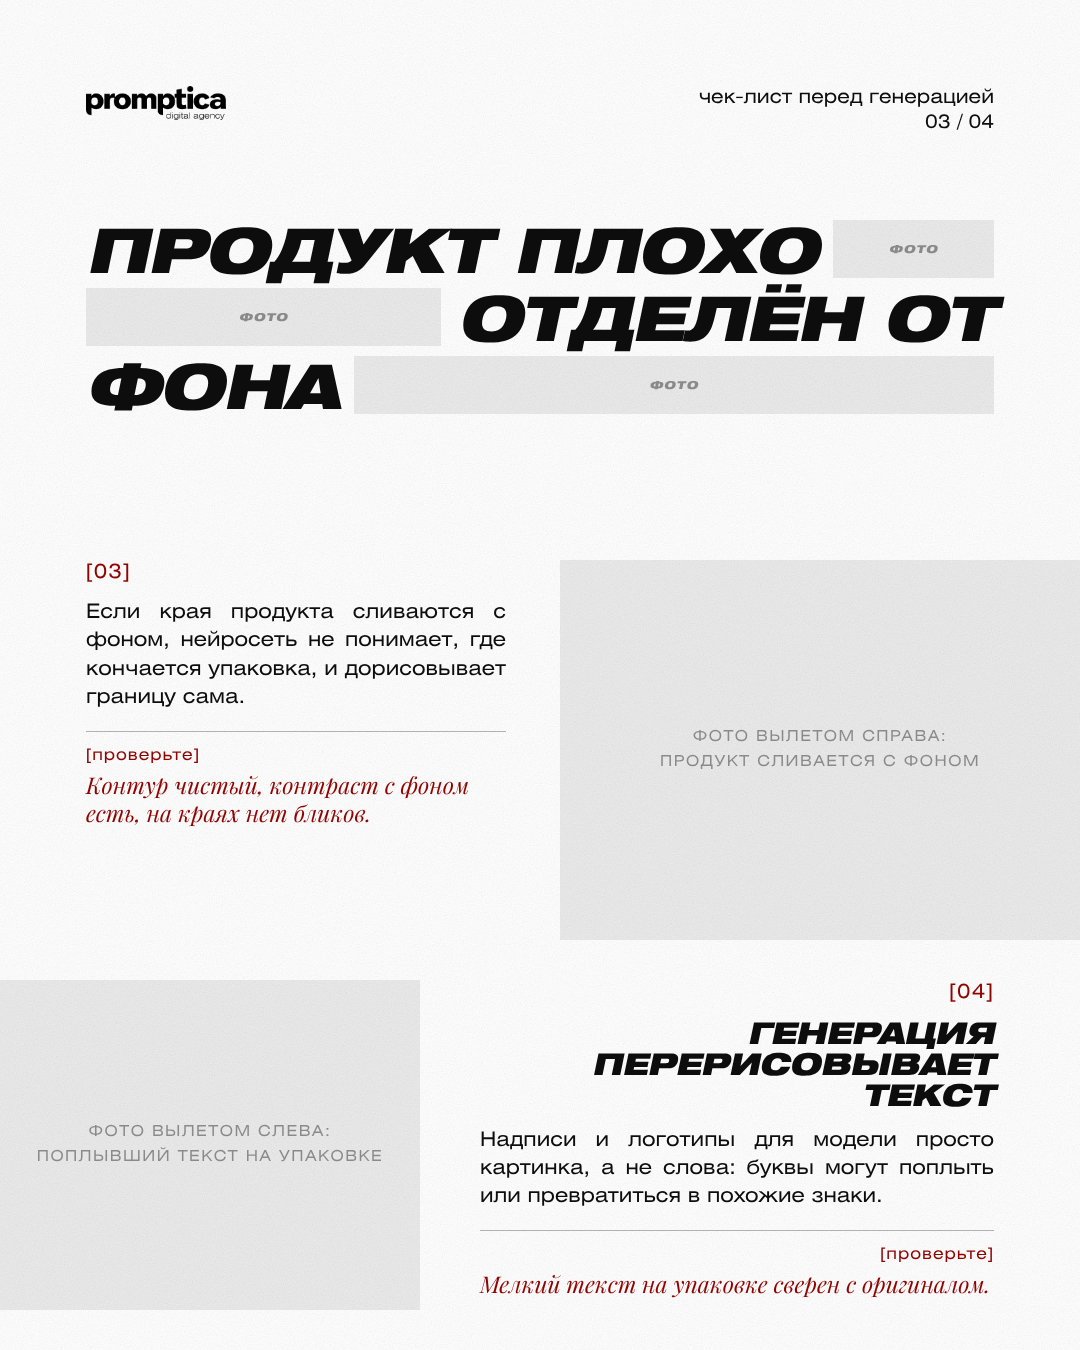
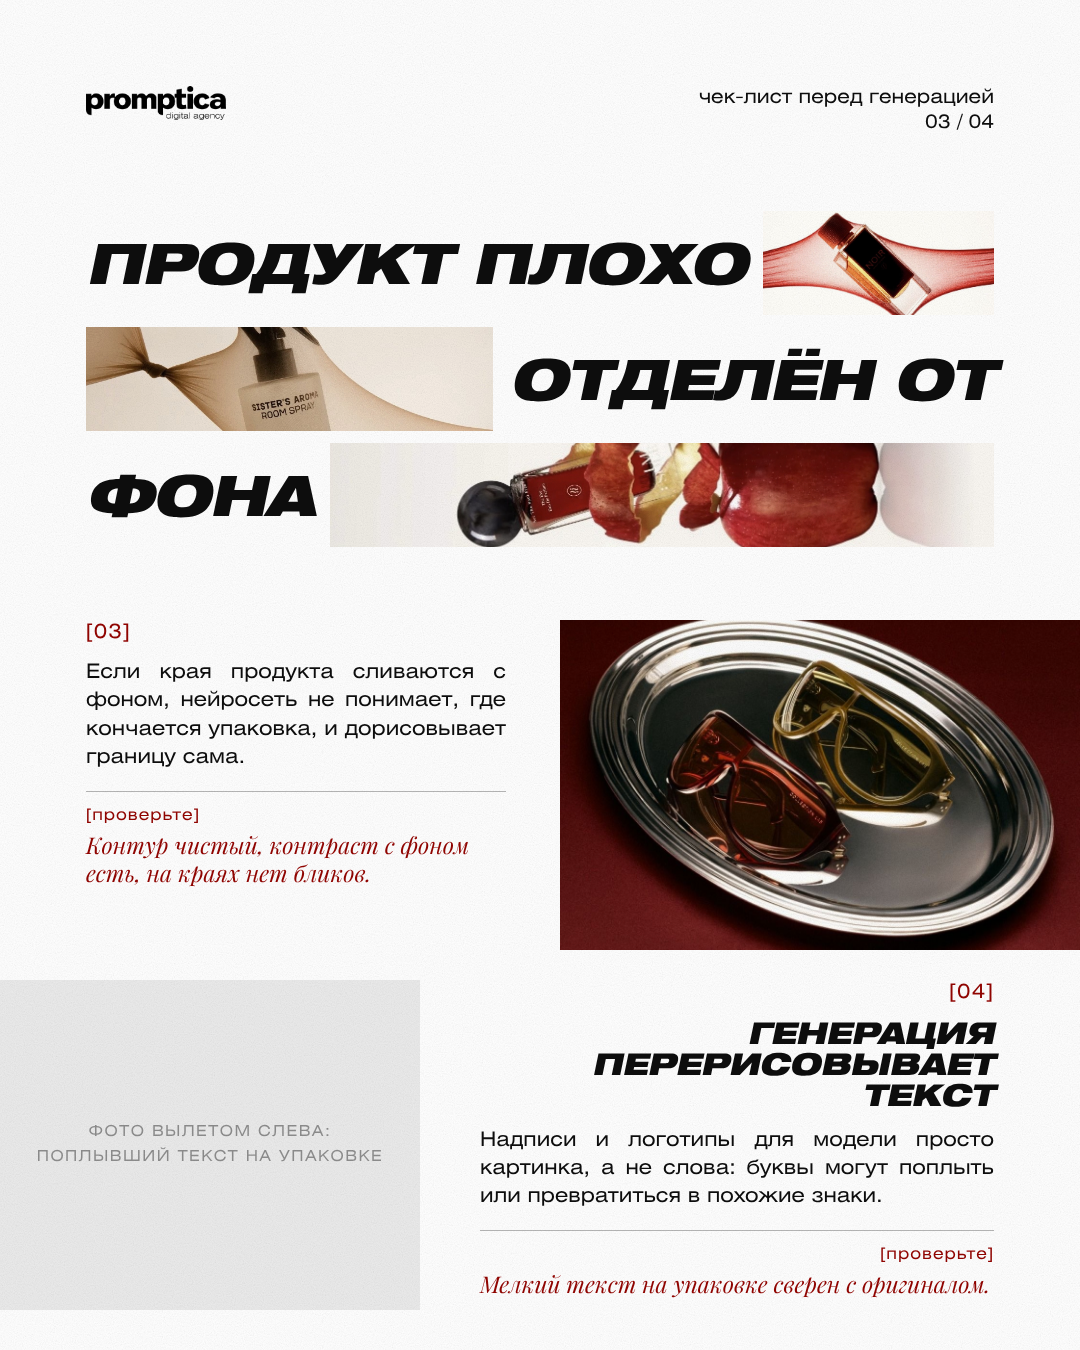
«Почему нейросеть меняет продукт»: фото на слайде 1, слайд 3 — фото в заголовке и пример слияния с фоном
Claude-Session: https://claude.ai/code/session_01V1NUh11xrVMcB1cs4GV2qz

Changed region(s): [[0.0611, 0.1556, 0.9472, 0.6533], [0.5194, 0.4356, 1.0, 0.7156]]

diff --git a/carousels/promptica-why-ai-changes-product/03.html b/carousels/promptica-why-ai-changes-product/03.html
@@ -7,13 +7,13 @@
 </head>
 <body>
   <div class="slide ">
-    <div class="abs" style="left:86px;top:215px;width:908px">
-      <div style="display:flex;align-items:center;font-family:'HN Black Ext',sans-serif;text-transform:uppercase;font-size:62px;line-height:1.1;letter-spacing:-0.02em;white-space:nowrap"><span>Продукт плохо</span><span class="ph" style="position:relative;flex:1;height:58px;margin-left:16px;min-width:90px" ><span class="hn" style="font-size:11px;padding:4px">фото</span><img src="img/03-s1.jpg" alt="" onerror="this.remove()"></span></div>
-      <div style="display:flex;align-items:center;font-family:'HN Black Ext',sans-serif;text-transform:uppercase;font-size:62px;line-height:1.1;letter-spacing:-0.02em;white-space:nowrap"><span class="ph" style="position:relative;flex:1;height:58px;margin-right:16px;min-width:90px"><span class="hn" style="font-size:11px;padding:4px">фото</span><img src="img/03-s2.jpg" alt="" onerror="this.remove()"></span><span>отделён от</span></div>
-      <div style="display:flex;align-items:center;font-family:'HN Black Ext',sans-serif;text-transform:uppercase;font-size:62px;line-height:1.1;letter-spacing:-0.02em;white-space:nowrap"><span>фона</span><span class="ph" style="position:relative;flex:1;height:58px;margin-left:16px;min-width:90px" ><span class="hn" style="font-size:11px;padding:4px">фото</span><img src="img/03-s3.jpg" alt="" onerror="this.remove()"></span></div>
+    <div class="abs" style="left:86px;top:205px;width:908px">
+      <div style="display:flex;align-items:center;font-family:'HN Black Ext',sans-serif;text-transform:uppercase;font-size:56px;line-height:1.1;letter-spacing:-0.02em;white-space:nowrap;min-height:116px"><span>Продукт плохо</span><span class="ph" style="position:relative;flex:1;height:104px;margin-left:16px;min-width:150px" ><span class="hn" style="font-size:11px;padding:4px">фото</span><img src="img/03-s1.jpg" alt="" style="object-position:50% 50%" onerror="this.remove()"></span></div>
+      <div style="display:flex;align-items:center;font-family:'HN Black Ext',sans-serif;text-transform:uppercase;font-size:56px;line-height:1.1;letter-spacing:-0.02em;white-space:nowrap;min-height:116px"><span class="ph" style="position:relative;flex:1;height:104px;margin-right:16px;min-width:150px"><span class="hn" style="font-size:11px;padding:4px">фото</span><img src="img/03-s2.jpg" alt="" style="object-position:50% 66%" onerror="this.remove()"></span><span>отделён от</span></div>
+      <div style="display:flex;align-items:center;font-family:'HN Black Ext',sans-serif;text-transform:uppercase;font-size:56px;line-height:1.1;letter-spacing:-0.02em;white-space:nowrap;min-height:116px"><span>фона</span><span class="ph" style="position:relative;flex:1;height:104px;margin-left:16px;min-width:150px" ><span class="hn" style="font-size:11px;padding:4px">фото</span><img src="img/03-s3.jpg" alt="" style="object-position:50% 52%" onerror="this.remove()"></span></div>
     </div>
-    <div class="abs rb " style="left:86px;top:560px;width:420px"><div class="br">[03]</div><p style="margin-top:14px">Если края продукта сливаются с фоном, нейросеть не понимает, где кончается упаковка, и дорисовывает границу сама.</p><div class="ck"><span class="br">[проверьте]</span><i>Контур чистый, контраст с фоном есть, на краях нет бликов.</i></div></div>
-    <div class="ph" style="left:560px;top:560px;width:520px;height:380px"><div class="hn">фото вылетом справа:<br>продукт сливается с фоном</div><img src="img/03-a.jpg" alt="" onerror="this.remove()"></div>
+    <div class="abs rb " style="left:86px;top:620px;width:420px"><div class="br">[03]</div><p style="margin-top:14px">Если края продукта сливаются с фоном, нейросеть не понимает, где кончается упаковка, и дорисовывает границу сама.</p><div class="ck"><span class="br">[проверьте]</span><i>Контур чистый, контраст с фоном есть, на краях нет бликов.</i></div></div>
+    <div class="ph" style="left:560px;top:620px;width:520px;height:330px"><div class="hn">фото вылетом справа:<br>продукт сливается с фоном</div><img src="img/03-a.jpg" alt="" style="object-position:50% 46%" onerror="this.remove()"></div>
     <div class="ph" style="left:0px;top:980px;width:420px;height:330px"><div class="hn">фото вылетом слева:<br>поплывший текст на упаковке</div><img src="img/03-b.jpg" alt="" onerror="this.remove()"></div>
     <div class="abs rb right" style="left:480px;top:980px;width:514px"><div class="br">[04]</div><div class="tt" style="font-size:30px">Генерация перерисовывает текст</div><p>Надписи и логотипы для модели просто картинка, а не слова: буквы могут поплыть или превратиться в похожие знаки.</p><div class="ck"><span class="br">[проверьте]</span><i>Мелкий текст на упаковке сверен с оригиналом.</i></div></div>
     <div class="hd"><img src="../../assets/logo_black.png" alt="promptica"></div>

diff --git a/carousels/promptica-why-ai-changes-product/01.html b/carousels/promptica-why-ai-changes-product/01.html
@@ -10,11 +10,10 @@
     <div class="abs" style="left:86px;top:200px;width:908px">
       <div class="fit" data-fit="908" style="text-transform:none;letter-spacing:-0.035em;line-height:.98">Почему нейросеть<br>меняет ваш продукт</div>
       <div class="mrow" style="margin-top:36px"><span><b class="br" style="font-weight:400">[01]</b> исходник</span><span><b class="br" style="font-weight:400">[02]</b> референсы</span><span><b class="br" style="font-weight:400">[03]</b> фон</span><span><b class="br" style="font-weight:400">[04]</b> текст</span></div>
-      <div style="font-size:44px;line-height:1.05;margin-top:30px;letter-spacing:-0.02em">4 причины и чек-лист в конце</div>
+      <div style="display:flex;justify-content:space-between;align-items:baseline;margin-top:30px"><span style="font-size:44px;line-height:1.05;letter-spacing:-0.02em">4 причины и чек-лист в конце</span><span class="mrow" style="font-size:17px">листай →</span></div>
     </div>
-    <div class="ph" style="left:0px;top:690px;width:1080px;height:660px"><div class="hn">фото вылетом: продукт, который нейросеть «изменила»</div><img src="img/01-a.jpg" alt="" style="object-position:50% 73%" onerror="this.remove()"></div>
-    <div class="abs mrow" style="left:86px;width:908px;top:640px;font-size:17px"><span>листай →</span><span>до генерации</span></div>
-    <div class="hd"><img src="../../assets/logo_black.png" alt="promptica"></div>
+    <div class="ph" style="left:0px;top:520px;width:1080px;height:830px"><div class="hn">фото вылетом: продукт, который нейросеть «изменила»</div><img src="img/01-a.jpg" alt="" style="object-position:50% 49%" onerror="this.remove()"></div>
+        <div class="hd"><img src="../../assets/logo_black.png" alt="promptica"></div>
     <div class="mt">чек-лист перед генерацией<br>01 / 04</div>
     <svg class="grain"><filter id="g"><feTurbulence type="fractalNoise" baseFrequency=".9" numOctaves="3" seed="1" stitchTiles="stitch"/><feColorMatrix type="saturate" values="0"/></filter><rect width="100%" height="100%" filter="url(#g)"/></svg>
   </div>
